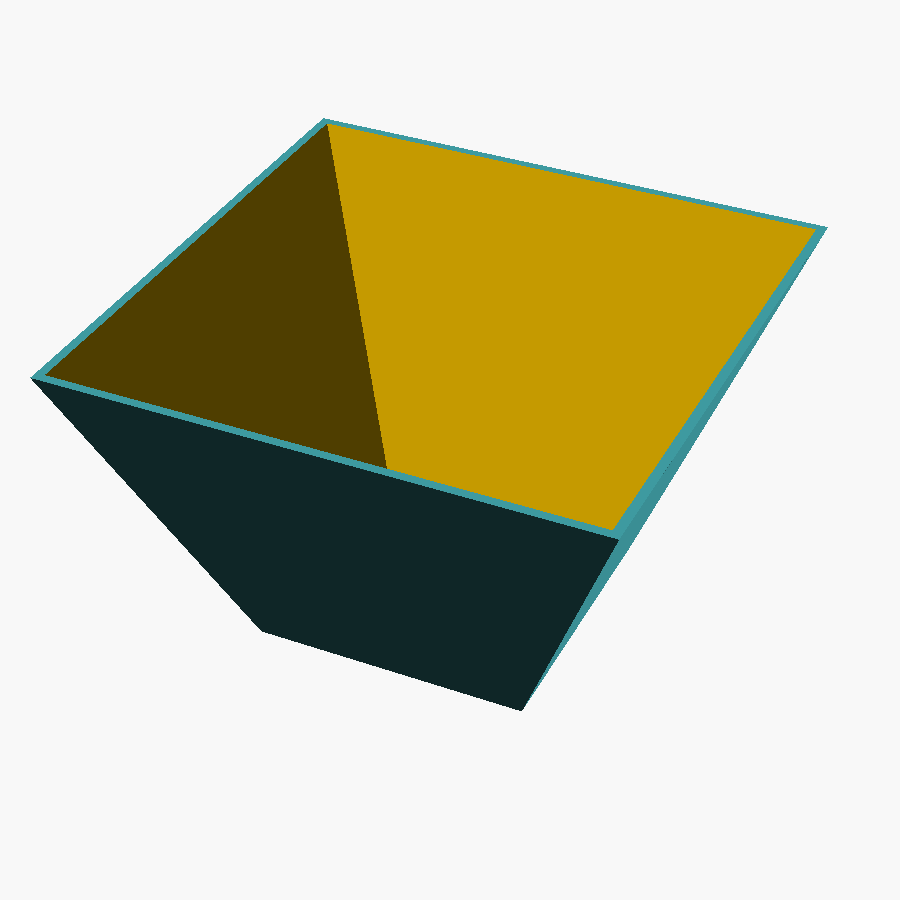
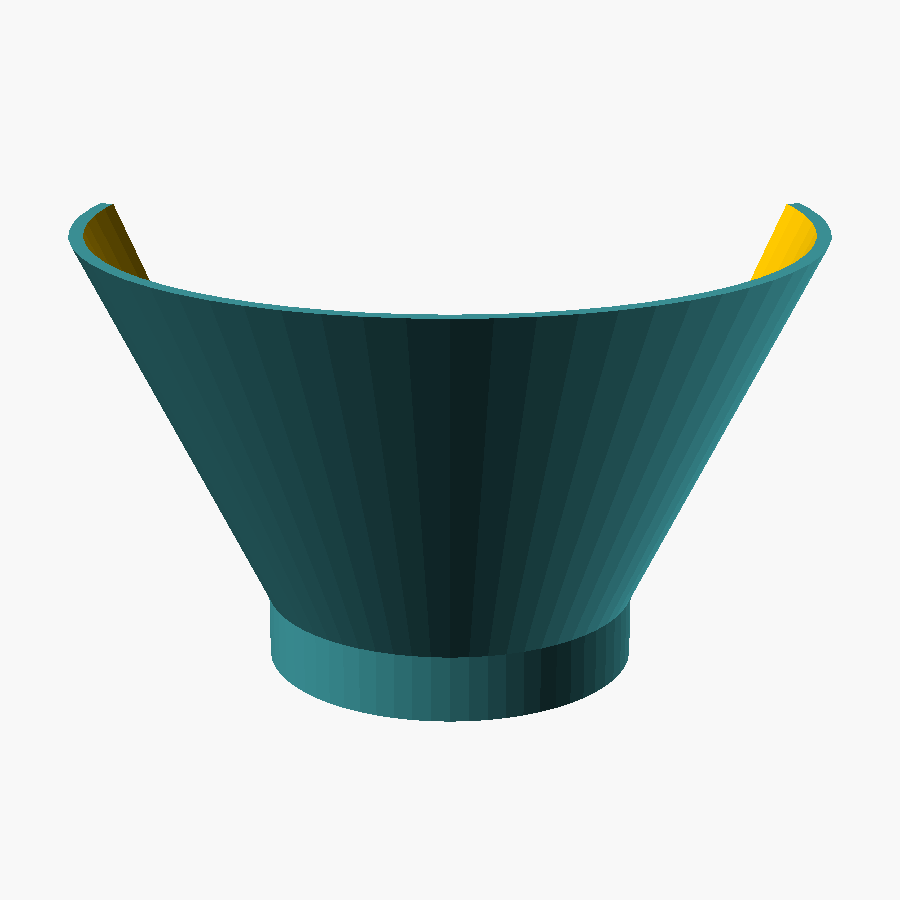
Rebuild hopper as an open scoop with the disk face as its floor
The previous hopper was a closed square funnel sitting on top of the
disk, which missed the mechanism entirely. Re-read against the ARC/ADG
reference photos: there is no separate hopper floor -- cases stand
packed on their bases directly against the singulator disk's face,
axes perpendicular to it, and the ~45 degree lean both presses those
bases flat against the disk (so one can drop axially into the pocket)
and shuffles the pile down-slope toward the pickup zone.

- hopper.scad: retaining collar at disk diameter + flared mouth, with
  an angled scoop cut bounded to the up-slope sector. Bounding it to a
  sector is what leaves a full-height retaining wall down-slope where
  the pile sits and the two pointed wings either side -- an unbounded
  cut just saddles the whole rim.
- DISK_THICKNESS 5 -> 10: the pocket depth has to hold a 44.7mm case
  upright against its tipping moment at 45 degrees while the disk
  carries it round. Flagged as a prime bench-test variable.
- lib/case_model.scad: simplified case solid, so assembly previews
  show what the mechanism is actually doing rather than bare plates.

diff --git a/docs/DESIGN.md b/docs/DESIGN.md
@@ -90,17 +90,28 @@ V-trough hopper feeds a rotating, tilted pocket disk that both singulates and re
 one mechanism. **CAD**: [`cad/feeder/`](../cad/feeder) (OpenSCAD, sized for a .223 Rem/5.56 NATO
 first prototype) — see [`cad/README.md`](../cad/README.md) before printing.
 
-- **Hopper**: a wide V-trough mounted at roughly 45° from vertical. Cases are dumped in as a loose
-  batch — no hand-orienting. Because a case's flat, relatively heavy base makes it the natural
-  "downhill" end, cases in the trough settle roughly base-down against the V on their own; the
-  trough doesn't need to precisely orient every case, just bias most of them the right way often
-  enough for the disk to pick up cleanly.
+- **Hopper**: an open, flared scoop leaning at roughly 45°, with the singulator disk forming its
+  floor. **There is no separate hopper bottom — the disk face itself is what the cases stand on.**
+  Cases are dumped in loose (no hand-orienting) and stand packed together on their bases directly
+  against the spinning disk, all roughly parallel, their axes perpendicular to the disk face. The
+  45° lean does two jobs at once: it presses the case bases flat against the disk face (so a base
+  can drop straight into a pocket as it passes), and it shuffles the pile down-slope so cases keep
+  feeding toward the pickup zone. The scoop is open on the up-slope side for loading and visibility
+  — gravity holds the pile down-slope, so an open uphill face costs nothing. That opening is what
+  gives the reference unit its "batwing" silhouette: two pointed wings either side of the scoop,
+  with a full-height retaining wall down-slope where the pile actually sits.
 - **Singulator disk**: a flat disk with a **single through-hole pocket**, mounted on a shaft tilted
-  with the hopper (~45°) and driven by the existing feeder stepper (`SELECT_FEEDER_MOTOR`). As it
-  rotates under the jumbled pile, a case that happens to be positioned base-first over the pocket
-  drops in, rim catching the hole's edge (the same principle as a shellholder — hole ID between
-  case body OD and rim/head OD). Cases that aren't captured just ride along the disk surface and
-  fall back into the hopper — no separate reject mechanism needed, this rejects itself.
+  with the hopper (~45°) and driven by the existing feeder stepper (`SELECT_FEEDER_MOTOR`). Because
+  the cases stand base-down on this disk's face, a case whose base happens to be over the pocket as
+  it passes drops straight in — entry is axial, along the pocket's own axis, which is why the cases
+  standing *perpendicular to the tilted face* (rather than vertically) is the detail that makes the
+  whole thing work. Cases not over the pocket simply stay standing on the disk face and get shuffled
+  along — no separate reject mechanism needed, this rejects itself.
+- **Pocket depth** is the disk's thickness, and it's load-bearing in a way that isn't obvious: the
+  pocket has to hold a case upright against its own tipping moment while the disk carries it to the
+  discharge. A 44.7mm .223 case in a 5mm-deep socket at 45° would likely flop; the current disk is
+  10mm for that reason. Expect to tune this on the bench — it's the first number to change if cases
+  tip or hang up.
 - **Stationary face plate**: sits directly behind the disk (same tilt), supporting a captured case
   from below/behind as the disk carries it around — otherwise it would just fall straight through
   the pocket immediately. The face plate has one **discharge cutout**; when the pocket's rotation
